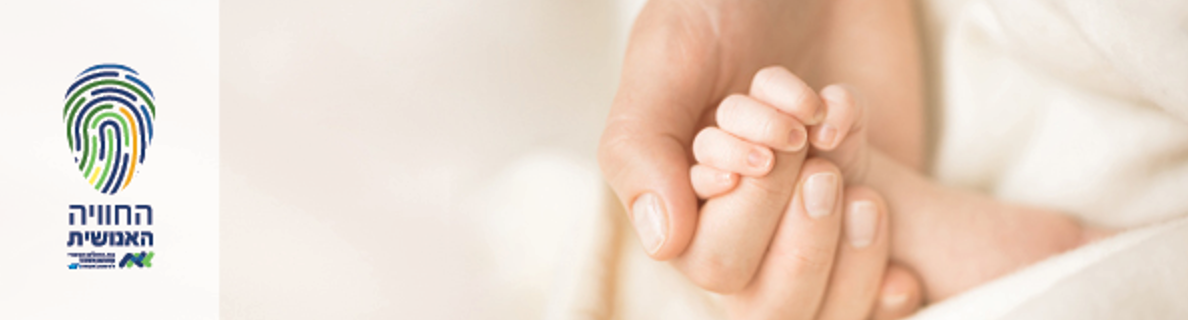
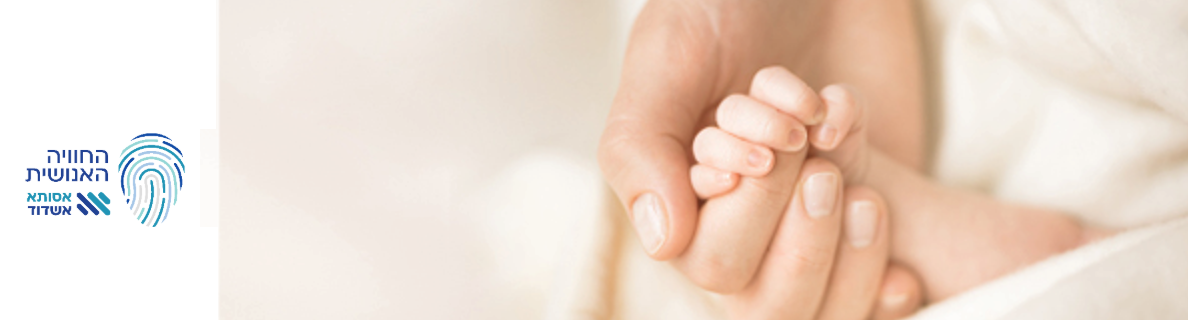
assuta rebranding

Changed region(s): [[0.0, 0.1869, 0.1557, 0.8411]]

diff --git a/src/pages/prematurity/prematurity.scss b/src/pages/prematurity/prematurity.scss
@@ -2,9 +2,9 @@
     --white: #ffffff;
     --black: var(--black);
     --blue: #0e2f74;
-    --blue1: #0f2d6c;
-    --green: #72a00e;
-    --light-green: #DBECD0;
+    --blue1: #1E3C95;
+    --green: #2594AF;
+    --light-green: #9CEFE7;
   }
 
 .category {
@@ -81,12 +81,12 @@ li {
 p.paragraph-title {
     font-weight: bold;
     font-family: "Open Sans", sans-serif;
-    color: var(--green);
+    color: var(--blue1);
 }
 
 
 li::marker {
-    color: var(--green);
+    color: var(--blue1);
 }
 
 .header-image-container {
@@ -202,6 +202,7 @@ li::marker {
     grid-template-columns: repeat(auto-fit, minmax(150px, 1fr));
     gap: 20px;
     padding: 20px;
+    width: 100%;
 }
 
 .grid-bullets-item {
@@ -255,7 +256,7 @@ li::marker {
 }
 
 .inline-baloon {
-    background-color:#C8E1B2;
+    background-color:#E5E5E5;
     color: #112D6D;
     text-align:center;
     font-weight: bold;

diff --git a/src/components/Header.scss b/src/components/Header.scss
@@ -26,17 +26,19 @@
 
     .header-contact {
       display: flex;
-      align-items: flex-start;
+      align-items: center;
       font-size: 20px;
       height: 47px;
-      padding: 14px;
-      margin-right: 18px;
+      padding-right: 10px;
+      padding-left: 10px;
+      margin-right: 10px;
       border-right: 1px solid #e2e2e2;
 
       .assuta-call-text {
         color: var(--green);
         font-weight: bold;
         display: flex;
+        align-items: center;
       }
 
       .assuta-call-phone {

diff --git a/src/pages/prematurity/parental-guidance-nutrition.jsx b/src/pages/prematurity/parental-guidance-nutrition.jsx
@@ -61,7 +61,7 @@ export default function NutritionalGuidancePreRelease() {
 
           <p className="paragraph-title">עד מתי לתת תמ"ל המשך לפגים?</p>
           <p>משך התזונה ייקבע לפי:</p>
-          <ul className="numbered-list">
+          <ul className="numbered-list" style={{width: '100%'}}>
             <li>מעקב הגדילה בטיפת חלב.</li>
             <li>הערכה של דיאטנית פגים בקופת החולים והמלצתה.</li>
           </ul>

diff --git a/src/components/Header.jsx b/src/components/Header.jsx
@@ -15,7 +15,7 @@ const Header = ({ isShowLangSwitcher }) => {
       <div className="header-main-section">
         <Link className="logo" to="/" title="Assuta Ashdod">
           <Image
-            src={isHebrew ? 'assuta_logo.svg' : 'assuta_logo_en.png'}
+            src={isHebrew ? 'assuta_logo.png' : 'assuta_logo_en.png'}
             alt="Assuta Ashdod"
             width="300px"
           />

diff --git a/src/components/Footer.jsx b/src/components/Footer.jsx
@@ -59,7 +59,7 @@ const Footer = () => (
         <ul className="footer-ul">
           <li>
             <Image
-              src="assuta/human-exp-logo-gray.png"
+              src="assuta/footer-logo.png"
               alt="human experience logo"
               className="footer-image-size"
               style={{ marginLeft: '20px' }}

diff --git a/src/pages/surgeries/preparation/preparation.scss b/src/pages/surgeries/preparation/preparation.scss
@@ -25,7 +25,7 @@
 }
 
 .title {
-  background-color: #24326A;
+  background-color: #1E3C95;
   color: #ffffff;
   margin-bottom: 20px;
   font-size: 11px;
@@ -33,8 +33,8 @@
 }
 
 .text {
-  background-color: #DBECD0;
-  color: #24326A;
+  background-color: #9CEFE7;
+  color: #1E3C95;
 }
 
 

diff --git a/src/styles/global.scss b/src/styles/global.scss
@@ -8,9 +8,9 @@
     /* Colors vars */
     --white: #ffffff;
     --blue: #0e2f74;
-    --blue1: #0f2d6c;
+    --blue1: #1E3C95;
     --black: #000000;
-    --green: #72a00e;
+    --green: #2594AF;
     --gray: #d7d7d7;
 
     /* Font vars */
